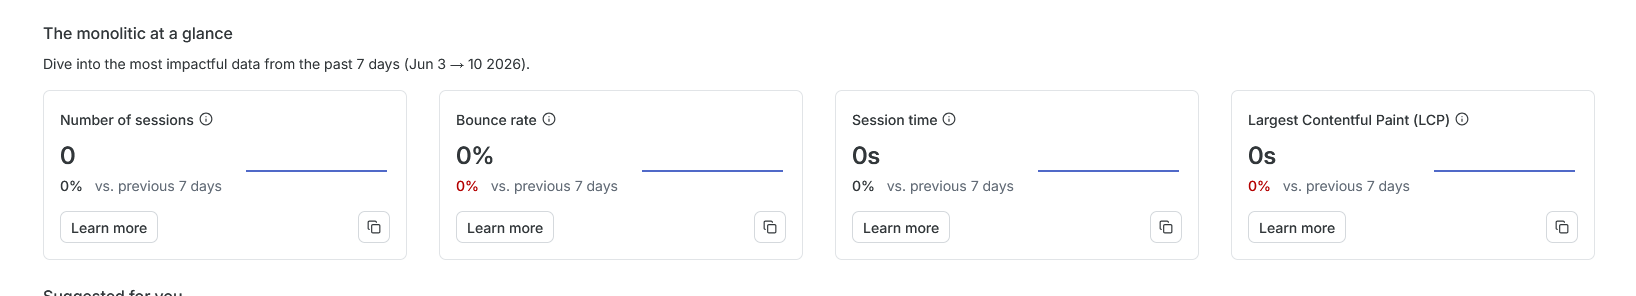
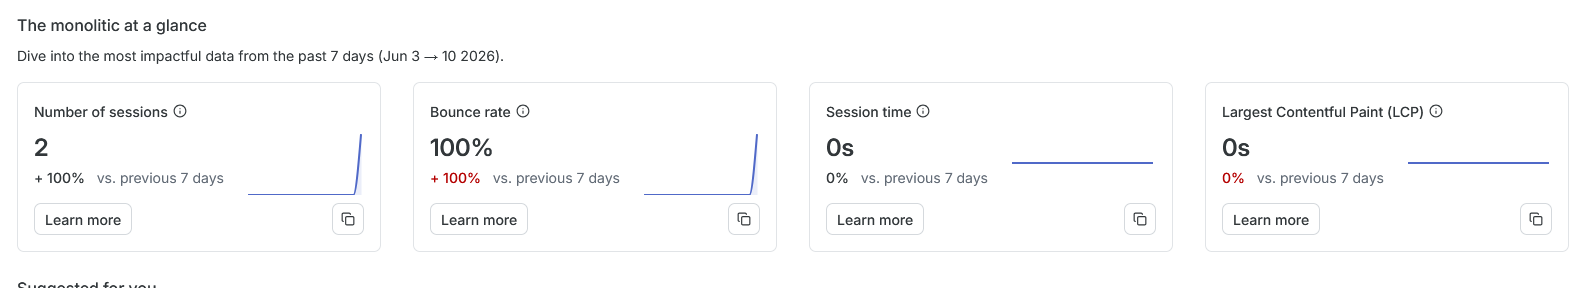
Readme: Update readme 2

diff --git a/README.md b/README.md
@@ -175,7 +175,7 @@ Hotjar inicjalizowany przez kod hotjar dodany w tagu head jako skrypt
 
 ![img.png](readme/hotjar.png)
 
-> Panel Hotjar — na moment tworzenia readme hotjar nie zarejestorwał w panelu jeszcze zdarzeń.
+> Panel Hotjar — analityka zebrała dwie sesje.
 
 
 ---